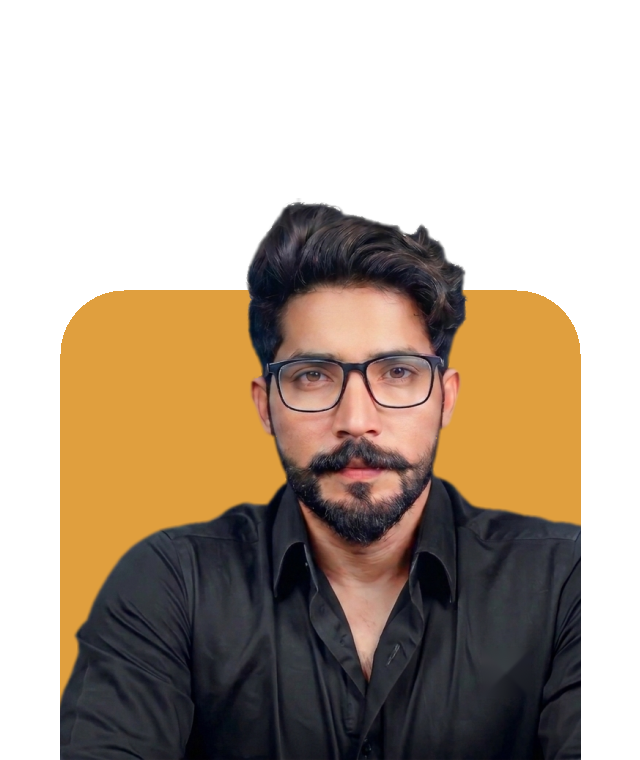
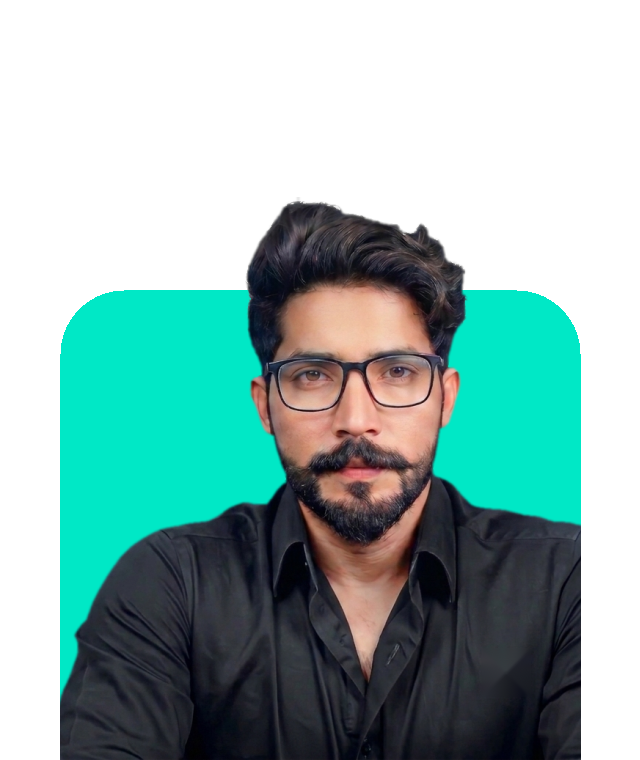
Add files via upload

diff --git a/index.html b/index.html
@@ -654,7 +654,6 @@
     </div>
     <ul>
       <li><a href="#signals">Signals</a></li>
-      <li><a href="#account">My Account</a></li>
       <li><a href="#about">About</a></li>
       <li><a href="#skills">Skills</a></li>
       <li><a href="#work">Work</a></li>
@@ -721,35 +720,6 @@
     <div id="signal-board" class="signal-grid"><p style="color:var(--ink-soft)">Loading signals…</p></div>
     <p class="calc-note">📱 <strong>Want push notifications on your phone?</strong> Install the free <a href="https://ntfy.sh/app" target="_blank" rel="noopener">ntfy app</a> and subscribe to the topic <strong>daddytrader-ali-signals</strong> — you'll get an instant alert for every new signal, even when the app is closed.</p>
     <p class="calc-note">⚠ Signals are for educational purposes only — not financial advice. Trading involves risk of loss. Always do your own research.</p>
-  </div>
-</section>
-
-<section id="account">
-  <div class="wrap reveal">
-    <p class="section-label">Members — Live Account Tracking</p>
-    <h2>Connect Your Exness Account</h2>
-
-    <div class="client-login" style="max-width:100%">
-      <p style="color:var(--ink-soft);margin-top:0">
-        <strong>Just 3 easy steps (completely free):</strong><br>
-        1️⃣ Create a free account at <a href="https://www.myfxbook.com" target="_blank" rel="noopener">Myfxbook.com</a><br>
-        2️⃣ Connect your Exness account there — only your account number and <strong>investor (read-only) password</strong> are needed; your funds stay completely safe<br>
-        3️⃣ In Myfxbook settings, make your account <strong>Public</strong> and <strong>enable Widgets</strong> — then enter your account ID below
-      </p>
-      <div class="calc-row">
-        <div class="calc-field">
-          <label for="fx-id">Myfxbook Account Link or ID</label>
-          <input type="text" id="fx-id" placeholder="e.g. myfxbook.com/members/ali/myaccount/1234567 or just 1234567" />
-        </div>
-        <div class="calc-field" style="display:flex;align-items:flex-end">
-          <button class="btn primary" id="fx-btn" type="button" style="width:100%">Show My Live Chart</button>
-        </div>
-      </div>
-      <p id="fx-err" style="color:#ff8a8e;font-size:13px;margin:10px 0 0"></p>
-    </div>
-
-    <div id="fx-result" style="display:none;margin-top:16px"></div>
-    <p class="calc-note">This data comes via Myfxbook — this website never asks for your password. Never share your real (trading) password with anyone; only use the investor password.</p>
   </div>
 </section>
 